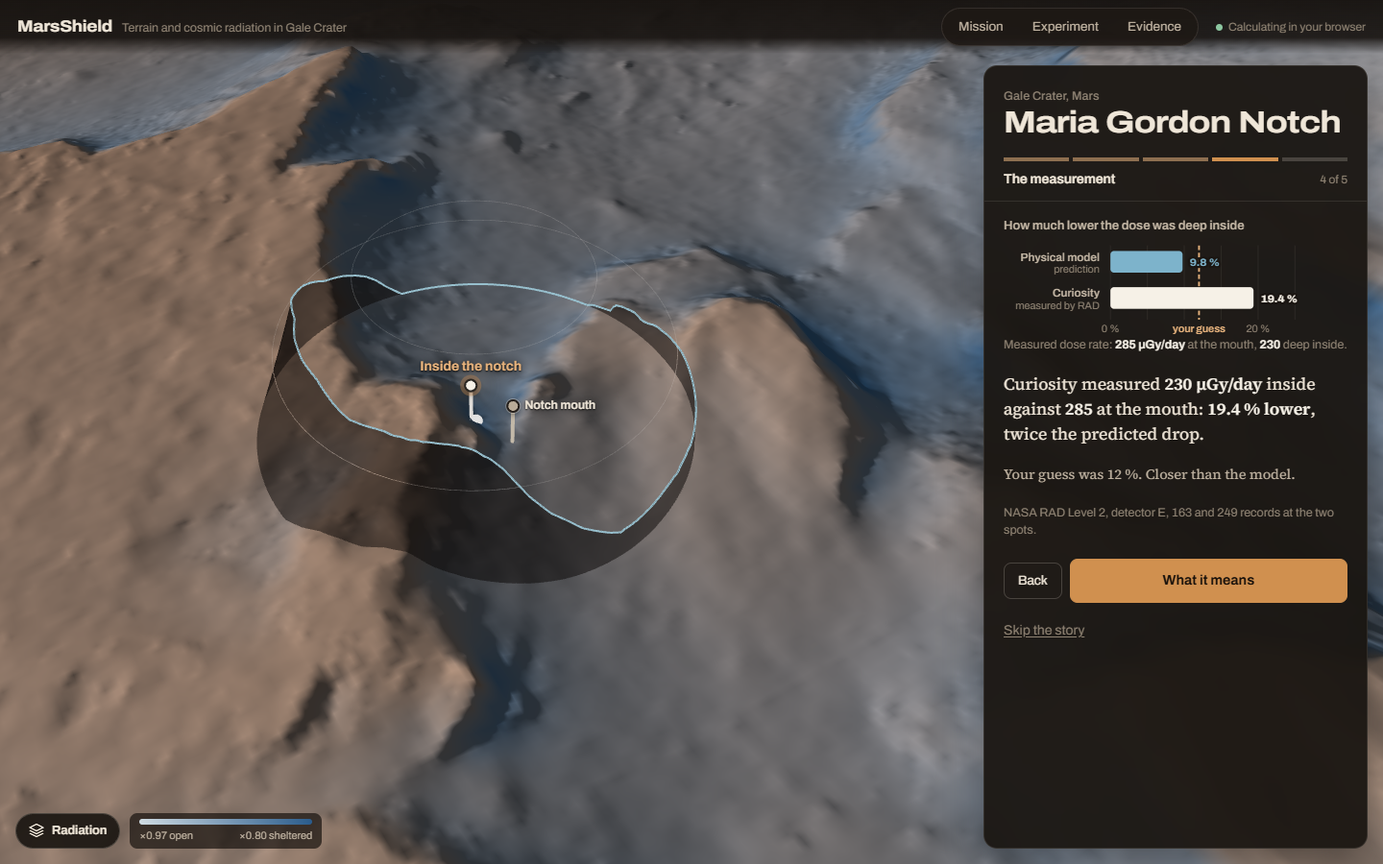
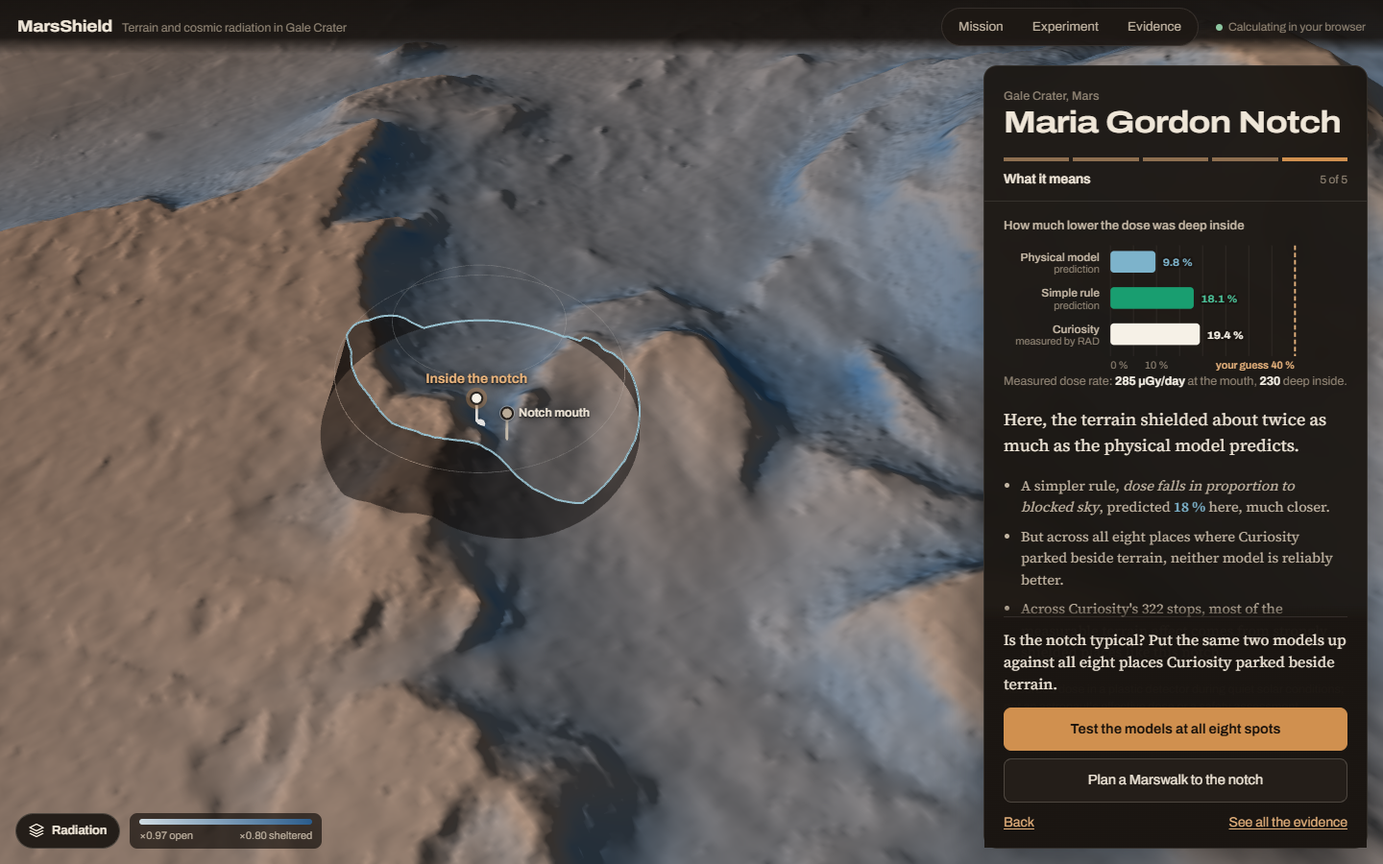
Clarify story independence, comparison references and astronaut tasks
- Story: "a look back, not a blind test" note at the prediction step (the
  model's albedo setting was partly derived from these parking measurements).
- Story chart: scale extends to the guess (up to 40 %) in 5 % steps; guess
  label kept inside the plot; a guess of exactly 0 % now registers.
- Story panel sizes to its content on desktop; next action pinned at the foot.
- Story ending leads into the eight-spot parking experiment (opens directly),
  with Plan a Marswalk as the second action.
- Mission evidence: each notch figure labelled with its reference
  (waypoint and 5-stop average vs other stops within ±15 sols; P6 vs BG6).
- Destination: Curiosity's historical objective separated from the assumed
  astronaut task, which no longer implies rover instruments; task exported.
- verify-story.mts (chart scale, extreme guesses) added to CI;
  docs/USABILITY_TEST.md (not yet run).

diff --git a/web/src/components/MissionMode.tsx b/web/src/components/MissionMode.tsx
@@ -31,6 +31,15 @@ function siteFlags(ds: Dataset, x: number, y: number): string[] {
   return out;
 }
 
+/** What MarsShield assumes a hypothetical astronaut does at the site, by activity type. Deliberately generic: the
+ *  plan models only time and position, not equipment, so it never assumes Curiosity's instruments (DAN, SAM, ...). */
+function astronautTask(label: string) {
+  const l = label.toLowerCase();
+  if (l.startsWith("sample")) return "Collect and document rock samples by hand";
+  if (l.startsWith("outcrop")) return "Document the outcrop and its layers";
+  return "Stationary fieldwork beside the cliff, with whatever equipment the expedition carries";
+}
+
 const flagTag = (f: string) => (f.startsWith("Steep") ? "steep ground" : f.startsWith("Below") ? "below a cliff" : "flag");
 
 export function MissionMode({ ds, eng, setScene, focusOn }: { ds: Dataset; eng: Eng; setScene: (s: SceneSpec) => void; focusOn: (x: number, y: number, dist?: number) => void }) {
@@ -173,7 +182,7 @@ export function MissionMode({ ds, eng, setScene, focusOn }: { ds: Dataset; eng: 
   const exportRun = () => download(`marsshield-mission-${dest}.json`, {
     kind: "MarsShield mission plan (modeled exposure; not a safety assessment)", generated: new Date().toISOString(), computed_in: "browser engine (verified against Python pipeline)",
     destination: { id: D.id, name: D.name, sources: D.sources }, start: { id: S.id, name: S.name }, return_leg: ret,
-    assumptions: { walking_speed_factor: suit, activity_duration_h: dur, work_radius_m: radius, eva_time_limit_h: limit || null, albedo_share: alpha, solar_modulation_MV: phi, stop_max_slope_deg: 15, walk_max_slope_deg: 25 },
+    assumptions: { astronaut_task: astronautTask(D.activity_label), curiosity_objective_historical: D.objective, walking_speed_factor: suit, activity_duration_h: dur, work_radius_m: radius, eva_time_limit_h: limit || null, albedo_share: alpha, solar_modulation_MV: phi, stop_max_slope_deg: 15, walk_max_slope_deg: 25 },
     routes: Object.fromEntries(STRATS.map(([o]) => [o, routes?.[o] ? { distance_m: sum("distance_m", o), time_h: sum("time_h", o), walking_dose_uGy: sum("dose_uGy", o) } : null])),
     plan: {
       route_strategy: sel,
@@ -210,8 +219,11 @@ export function MissionMode({ ds, eng, setScene, focusOn }: { ds: Dataset; eng: 
               <button key={t.id} role="radio" aria-checked={t.id === dest} onClick={() => pickDest(t.id)}>{t.name.split(",")[0]}</button>))}
           </div>
           <div className="dest-card">
-            <p className="dest-sub">{(() => { const q = D.name.split(",").slice(1).join(",").trim(); return q ? q[0].toUpperCase() + q.slice(1) : "Gale Crater"; })()}. {D.activity_label}.</p>
+            <p className="dest-sub">{(() => { const q = D.name.split(",").slice(1).join(",").trim(); return q ? q[0].toUpperCase() + q.slice(1) : "Gale Crater"; })()}</p>
+            <p className="role">Curiosity&apos;s objective here, sol {D.waypoint.sol} (historical)</p>
             <p className="lede">{D.objective}</p>
+            <p className="role">Your astronaut&apos;s task (assumed for this plan)</p>
+            <p className="prose"><A>{astronautTask(D.activity_label)}</A>. MarsShield plans only where and how long the astronaut works; it does not assume they carry Curiosity&apos;s instruments.</p>
             <dl className="facts">
               <div><dt>Work time</dt><dd><A>{h(D.duration_h[1])}</A></dd></div>
               <div><dt>Work area</dt><dd><A>{D.work_radius_m} m</A> radius</dd></div>
@@ -260,7 +272,7 @@ export function MissionMode({ ds, eng, setScene, focusOn }: { ds: Dataset; eng: 
 
         {step === 2 && (<>
           <h2 className="q">How long will the science take?</h2>
-          <p className="prose">{D.activity_label} at {D.name.split(",")[0]}.</p>
+          <p className="prose">At {D.name.split(",")[0]}: <A>{astronautTask(D.activity_label).toLowerCase()}</A>. A hypothetical task, not Curiosity&apos;s.</p>
           <Slider label={<>Time at the site <A>(planning assumption)</A></>} value={dur} min={0.25} max={Math.max(8, D.duration_h[2])} step={0.25} onChange={setDur} fmt={h} />
           <div className="row"><span className="muted">Your EVA time limit</span>
             <Seg label="EVA time limit" value={limit} onChange={setLimit} options={[[0, "None"], [4, "4 h"], [6, "6 h"], [8, "8 h"]]} /></div>
@@ -335,21 +347,24 @@ export function MissionMode({ ds, eng, setScene, focusOn }: { ds: Dataset; eng: 
         {step === 4 && (<>
           <h2 className="q">What did Curiosity actually measure here?</h2>
           <Grammar />
-          {D.measured_rad ? (
-            <div className="figure-pair">
-              <div><b><M>{D.measured_rad.E_mean_uGy_d.toFixed(0)}</M></b><span>µGy/day measured by RAD, {D.measured_rad.utc_start?.slice(0, 10)} to {D.measured_rad.utc_end?.slice(0, 10)}</span></div>
-              <div><b><M>{D.measured_rad.local_anomaly != null ? `${sgn(D.measured_rad.local_anomaly * 100)} %` : "n/a"}</M></b><span>against the surrounding ±15 sols</span></div>
-            </div>
-          ) : <p className="muted">No RAD summary at Curiosity&apos;s position for this site.</p>}
-          {(() => {
-            const near = ds.terrainSignal?.rows.filter((r) => Math.hypot(r.x - D.x, r.y - D.y) < 40) ?? [];
-            if (!near.length) return null;
-            const avg = (k: "y_obs" | "m_terrain" | "g_proxy") => (near.reduce((s, r) => s + r[k], 0) / near.length) * 100;
-            return <p className="prose">At Curiosity&apos;s {near.length} stop{near.length > 1 ? "s" : ""} here, the dose was <M>{sgn(avg("y_obs"))} %</M> against its surroundings.
-              The terrain model predicted <P>{sgn(avg("m_terrain"))} %</P> and the simple blocked-sky rule <P>{sgn(avg("g_proxy"))} %</P>.</p>;
-          })()}
-          {ds.periods.filter((q) => q.kind === "parking" && Math.hypot(q.x - D.x, q.y - D.y) < 60).map((q) => (
-            <p key={q.id} className="prose">Published terrain-shielding period {q.id}: RAD dropped <M>{((q.pub.decrease ?? 0) * 100).toFixed(1)} %</M> against a nearby background position.</p>))}
+          <p className="prose">Each figure compares Curiosity&apos;s dose here with a <b>different reference</b>, so they are not expected to match and do not contradict each other.</p>
+          <div className="cmp-list">
+            {D.measured_rad?.local_anomaly != null && (
+              <div className="cmp"><b><M>{sgn(D.measured_rad.local_anomaly * 100)} %</M></b>
+                <span><strong>At the target waypoint</strong> (sol {D.measured_rad.sol}, <M>{D.measured_rad.E_mean_uGy_d.toFixed(0)} µGy/day</M>), against Curiosity&apos;s dose at its other stops within ±15 sols.</span></div>)}
+            {(() => {
+              const near = ds.terrainSignal?.rows.filter((r) => Math.hypot(r.x - D.x, r.y - D.y) < 40) ?? [];
+              if (!near.length) return null;
+              const avg = (k: "y_obs" | "m_terrain" | "g_proxy") => (near.reduce((q, r) => q + r[k], 0) / near.length) * 100;
+              return <div className="cmp"><b><M>{sgn(avg("y_obs"))} %</M></b>
+                <span><strong>Average of Curiosity&apos;s {near.length} stop{near.length > 1 ? "s" : ""} within 40 m</strong>, same ±15-sol reference; these stops have {(Math.min(...near.map((r) => r.B)) * 100).toFixed(0)} to {(Math.max(...near.map((r) => r.B)) * 100).toFixed(0)} % of the sky blocked, so the average mixes sheltered and open ground. Terrain model <P>{sgn(avg("m_terrain"))} %</P>, blocked-sky rule <P>{sgn(avg("g_proxy"))} %</P>. This is the comparison used across all 322 stops.</span></div>;
+            })()}
+            {ds.parking.pairs.filter((q) => { const pp = ds.parking.periods[q.parking]; return pp && Math.hypot(pp.x - D.x, pp.y - D.y) < 60; }).map((q) => {
+              const pp = ds.parking.periods[q.parking], bg = ds.parking.periods[q.background];
+              return <div className="cmp" key={q.parking}><b><M>{sgn((pp.D_RAD_ours / bg.D_RAD_ours - 1) * 100)} %</M></b>
+                <span><strong>Published parking pair {q.parking} against {q.background}</strong>: deep inside against the notch mouth {Math.hypot(pp.x - bg.x, pp.y - bg.y).toFixed(0)} m away, on consecutive days (Guo et al. 2026). This is the comparison in the opening story.</span></div>;
+            })}
+          </div>
           {ds.skiesTargets[dest] && (<>
             <SkyDisc sky={ds.skiesTargets[dest]} size={260} />
             <More label="How much dose arrives from each part of the sky"><ZenithBars sky={ds.skiesTargets[dest]} /></More>

diff --git a/web/src/components/Story.tsx b/web/src/components/Story.tsx
@@ -4,13 +4,14 @@
 import { useEffect, useState } from "react";
 import type { Dataset } from "@/lib/data";
 import type { ScenePin } from "./TerrainScene";
+import { dropScale, GUESS_MAX } from "@/lib/storyScale";
 import { M, P } from "./ui";
 
 type Mode = "mission" | "experiment" | "evidence";
 export type StoryScene = { pins: ScenePin[]; sky: boolean; focus: { x: number; y: number; dist: number } };
 const STEPS = ["The place", "The question", "The model", "The measurement", "What it means"];
 
-export function NotchStory({ ds, setStoryScene, onDone }: { ds: Dataset; setStoryScene: (s: StoryScene) => void; onDone: (m: Mode) => void }) {
+export function NotchStory({ ds, setStoryScene, onDone }: { ds: Dataset; setStoryScene: (s: StoryScene) => void; onDone: (m: Mode, exp?: "parking") => void }) {
   const [step, setStep] = useState(0);
   const [guess, setGuess] = useState<number | null>(null);
   const inside = ds.parking.periods.P6, mouth = ds.parking.periods.BG6;
@@ -53,7 +54,8 @@ export function NotchStory({ ds, setStoryScene, onDone }: { ds: Dataset; setStor
           <div className="guess">
             <label htmlFor="guess"><b>How much lower was the dose deep inside?</b> <span className="muted">Your guess, optional</span></label>
             <div className="guess-row">
-              <input id="guess" type="range" min={0} max={40} step={1} value={guess ?? 0} onChange={(e) => setGuess(+e.target.value)} />
+              <input id="guess" type="range" min={0} max={GUESS_MAX} step={1} value={guess ?? 0} onChange={(e) => setGuess(+e.target.value)}
+                onPointerUp={(e) => setGuess(+e.currentTarget.value)} onKeyUp={(e) => setGuess(+e.currentTarget.value)} />
               <output>{guess == null ? "–" : `${guess} % lower`}</output>
             </div>
           </div>
@@ -64,6 +66,7 @@ export function NotchStory({ ds, setStoryScene, onDone }: { ds: Dataset; setStor
         {step === 2 && (<>
           <p className="lede">The published physical model counts both effects and predicts the dose inside to be <P>{(model * 100).toFixed(1)} % lower</P>.</p>
           <p className="prose">It traces the sky the walls block and adds radiation re-emitted by the rock (Guo et al. 2021, 2026), using the terrain you see.</p>
+          <p className="caveat"><b>A look back, not a blind test.</b> How much radiation the rock re-emits is the model&apos;s one adjustable setting, and its authors partly derived it from Curiosity&apos;s parking measurements, including this notch.</p>
         </>)}
         {step === 3 && (<>
           <p className="lede">Curiosity measured <M>{inside.D_RAD_ours.toFixed(0)} µGy/day</M> inside against <M>{mouth.D_RAD_ours.toFixed(0)}</M> at the mouth: <M>{(measured * 100).toFixed(1)} % lower</M>, twice the predicted drop.</p>
@@ -83,18 +86,19 @@ export function NotchStory({ ds, setStoryScene, onDone }: { ds: Dataset; setStor
           <div className="story-nav">
             {step > 0 && <button className="btn ghost" onClick={() => setStep(step - 1)}>Back</button>}
             <button className="btn primary" onClick={next}>{["Ask the question", "See the prediction", "Reveal the measurement", "What it means"][step]}</button>
+            <button className="linklike small skip" onClick={() => onDone("mission")}>Skip the story</button>
           </div>
         ) : (
           <div className="story-cta">
-            <button className="btn primary" onClick={() => onDone("mission")}>Plan a Marswalk to the notch</button>
-            <button className="btn" onClick={() => onDone("experiment")}>Test the models yourself</button>
+            <p className="bridge">Is the notch typical? Put the same two models up against all eight places Curiosity parked beside terrain.</p>
+            <button className="btn primary" onClick={() => onDone("experiment", "parking")}>Test the models at all eight spots</button>
+            <button className="btn" onClick={() => onDone("mission")}>Plan a Marswalk to the notch</button>
             <div className="row" style={{ justifyContent: "space-between" }}>
               <button className="linklike small" onClick={() => setStep(step - 1)}>Back</button>
               <button className="linklike small" onClick={() => onDone("evidence")}>See all the evidence</button>
             </div>
           </div>
         )}
-        {step < STEPS.length - 1 && <button className="linklike small skip" onClick={() => onDone("mission")}>Skip the story</button>}
       </div>
     </>
   );
@@ -105,7 +109,10 @@ export function NotchStory({ ds, setStoryScene, onDone }: { ds: Dataset; setStor
 function ShieldBars({ model, measured, rule, showMeasured, showRule, guess, mouth, inside }: {
   model: number; measured: number; rule: number; showMeasured: boolean; showRule: boolean; guess: number | null; mouth: number; inside: number;
 }) {
-  const W = 380, pl = 118, pr = 58, max = 25, x = (v: number) => pl + (v / max) * (W - pl - pr);
+  const { max, ticks, grid } = dropScale([model * 100, measured * 100, rule * 100], guess);
+  const W = 380, pl = 118, pr = 58, x = (v: number) => pl + (Math.min(Math.max(v, 0), max) / max) * (W - pl - pr);
+  // keep the guess label inside the plot at the extremes (0 % and the top of the scale)
+  const gAnchor = guess == null ? "middle" : x(guess) - pl < 30 ? "start" : W - pr - x(guess) < 30 ? "end" : "middle";
   const rows: { k: string; label: string; sub: string; v: number | null; cls: string }[] = [
     { k: "model", label: "Physical model", sub: "prediction", v: model, cls: "bar-model" },
     ...(showRule ? [{ k: "rule", label: "Simple rule", sub: "prediction", v: rule, cls: "bar-rule" }] : []),
@@ -117,10 +124,10 @@ function ShieldBars({ model, measured, rule, showMeasured, showRule, guess, mout
       <p className="bars-title">How much lower the dose was deep inside</p>
       <svg viewBox={`0 0 ${W} ${H}`} className="chart" role="img"
         aria-label={`Drop in dose rate inside the notch: model ${(model * 100).toFixed(1)} %${showMeasured ? `, measured ${(measured * 100).toFixed(1)} %` : ""}${showRule ? `, simple rule ${(rule * 100).toFixed(1)} %` : ""}`}>
-        <g className="grid">{[0, 5, 10, 15, 20, 25].map((t) => <line key={t} x1={x(t)} x2={x(t)} y1={top} y2={H - 18} />)}</g>
-        {guess != null && <g>
+        <g className="grid">{grid.map((t) => <line key={t} x1={x(t)} x2={x(t)} y1={top} y2={H - 18} />)}</g>
+        {guess != null && <g data-guess={guess}>
           <line x1={x(guess)} x2={x(guess)} y1={top} y2={H - 18} stroke="#e7b37d" strokeWidth={2} strokeDasharray="5 3" />
-          <text x={x(guess)} y={H - 4} textAnchor="middle" className="guess-lbl">your guess</text></g>}
+          <text x={x(guess)} y={H - 4} textAnchor={gAnchor} className="guess-lbl">your guess {guess} %</text></g>}
         {rows.map((r, i) => {
           const cy = top + i * rowH;
           return (
@@ -135,7 +142,14 @@ function ShieldBars({ model, measured, rule, showMeasured, showRule, guess, mout
             </g>
           );
         })}
-        {[0, 10, 20].map((t) => (guess != null && Math.abs(t - guess) < 4 ? null : <text key={t} x={x(t)} y={H - 4} textAnchor="middle">{t} %</text>))}
+        {ticks.map((t) => {
+          // hide a tick label wherever the guess label (about 92 px wide) would overlap it
+          if (guess != null) {
+            const gx = x(guess), [l, r] = gAnchor === "start" ? [gx, gx + 92] : gAnchor === "end" ? [gx - 92, gx] : [gx - 46, gx + 46];
+            if (x(t) > l - 18 && x(t) < r + 18) return null;
+          }
+          return <text key={t} x={x(t)} y={H - 4} textAnchor={t === 0 ? "start" : "middle"}>{t} %</text>;
+        })}
       </svg>
       {showMeasured && <figcaption className="muted">Measured dose rate: <span className="v-measured">{mouth.toFixed(0)} µGy/day</span> at the mouth, <span className="v-measured">{inside.toFixed(0)}</span> deep inside.</figcaption>}
     </figure>

diff --git a/web/src/app/design.css b/web/src/app/design.css
@@ -30,6 +30,13 @@
 .story-nav { display: flex; gap: 8px; align-items: center; margin-top: 2px; }
 .story-nav .btn.primary { flex: 1; padding: 11px 16px; font-size: 14.5px; }
 .story-cta { display: flex; flex-direction: column; gap: 8px; width: 100%; }
+/* the story's next action stays visible at the foot of the panel while the content scrolls */
+.story .story-nav, .story .story-cta { position: sticky; bottom: -24px; z-index: 1; margin: 0 -20px -24px; padding: 12px 20px 16px;
+  background: linear-gradient(180deg, rgba(26, 21, 17, 0), rgba(26, 21, 17, 0.97) 18px); }
+.story .story-nav { flex-wrap: wrap; }
+.story .story-cta { width: auto; }
+.story .story-cta .bridge { margin: 0 0 4px; padding-top: 12px; }
+.story .story-nav .skip { flex-basis: 100%; margin-top: 2px; }
 .story-cta .btn { padding: 11px 16px; font-size: 14.5px; text-align: center; }
 .story-cta .linklike { align-self: center; margin-top: 2px; }
 .skip { align-self: flex-start; color: var(--ink-3); }
@@ -128,6 +135,17 @@
 .models i { display: inline-block; width: 9px; height: 9px; border-radius: 50%; margin-right: 8px; vertical-align: 1px; }
 .models b { color: var(--ink); font-weight: 600; }
 
+/* the story panel sizes to its content on desktop instead of running the full height of the terrain */
+@media (min-width: 861px) { .panel.fit { bottom: auto; max-height: calc(100dvh - 84px); } .panel.fit .panel-body { flex: 0 1 auto; } }
+.caveat { margin: 0; padding: 9px 12px; border-left: 3px solid var(--line-2); font-size: 13px; line-height: 1.5; color: var(--ink-2); }
+.caveat b { color: var(--ink); font-weight: 600; }
+.bridge { margin: 4px 0 0; padding-top: 14px; border-top: 1px solid var(--line); font-family: var(--font-text); font-size: 15.5px; line-height: 1.5; color: var(--ink); }
+.role { margin: 0; font-size: 11.5px; font-weight: 600; color: var(--ink-3); }
+.cmp-list { display: grid; gap: 12px; }
+.cmp { display: grid; grid-template-columns: 92px 1fr; gap: 12px; align-items: baseline; }
+.cmp > b { font-size: 20px; font-weight: 650; font-stretch: 105%; text-align: right; white-space: nowrap; }
+.cmp > span { font-size: 13px; line-height: 1.5; color: var(--ink-2); }
+.cmp > span strong { color: var(--ink); font-weight: 600; }
 @media (min-width: 861px) and (max-width: 1180px) { .panel { width: 370px; } }
 @media (max-width: 860px) {
   .panel { width: auto; }

diff --git a/web/src/components/App.tsx b/web/src/components/App.tsx
@@ -83,6 +83,7 @@ export default function App() {
   const [layer, setLayer] = useState<Layer>("dose");
   const [showObs, setShowObs] = useState(false);     // Curiosity's 322 RAD stops: in Layers, off by default
   const [story, setStory] = useState<StoryScene | null>(null);
+  const [initExp, setInitExp] = useState<"parking" | null>(null);   // the story can hand over straight to an experiment
   // desktop: the panel covers the right of the canvas, so centre the camera's focus in what remains
   const [vw, setVw] = useState(1440);
   useEffect(() => { const f = () => setVw(window.innerWidth); f(); window.addEventListener("resize", f); return () => window.removeEventListener("resize", f); }, []);
@@ -102,7 +103,8 @@ export default function App() {
     loadDataset().then(setDs).catch((e) => setErr(String(e.message ?? e)));
   }, []);
   const focusOn = useCallback((x: number, y: number, dist?: number) => setFocus((f) => ({ x, y, dist, n: (f?.n ?? 0) + 1 })), []);
-  const finishWelcome = (m: Mode) => {
+  const finishWelcome = (m: Mode, exp?: "parking") => {
+    setInitExp(exp ?? null);
     setWelcome(false); setMode(m); setCard(null); setScene({});   // each mode draws only its own lines
     if (m !== "mission") overview();
     if (m === "evidence") setLayer("dose");
@@ -180,11 +182,11 @@ export default function App() {
         <button className="btn ghost panel-toggle" style={{ display: panel ? "none" : undefined }} onClick={() => setPanel(true)}>Show panel</button>
       </section>
 
-      <aside className={`panel ${panel ? "" : "hidden"}`} aria-label="Panel">
+      <aside className={`panel ${panel ? "" : "hidden"}${welcome ? " fit" : ""}`} aria-label="Panel">
         {welcome ? (
           <NotchStory ds={ds} setStoryScene={setStoryScene} onDone={finishWelcome} />
         ) : mode === "mission" ? <MissionMode ds={ds} eng={eng} setScene={setSceneCb} focusOn={focusOn} />
-          : mode === "experiment" ? <ExperimentMode ds={ds} setScene={setSceneCb} setLayer={setLayerCb} />
+          : mode === "experiment" ? <ExperimentMode ds={ds} setScene={setSceneCb} setLayer={setLayerCb} initial={initExp} />
           : <EvidenceMode ds={ds} />}
       </aside>
     </div>

diff --git a/web/src/components/ExperimentMode.tsx b/web/src/components/ExperimentMode.tsx
@@ -66,8 +66,8 @@ function slopeCI(x: number[], y: number[], L = 20, B = 2000) {
   return { slope: s(x.map((_, i) => i)), lo: pct(bs, 0.025), hi: pct(bs, 0.975) };
 }
 
-export function ExperimentMode({ ds, setScene, setLayer }: { ds: Dataset; setScene: (s: SceneSpec) => void; setLayer: (l: "dose" | "disagree" | "image") => void }) {
-  const [exp, setExp] = useState<Exp | null>(null);
+export function ExperimentMode({ ds, setScene, setLayer, initial = null }: { ds: Dataset; setScene: (s: SceneSpec) => void; setLayer: (l: "dose" | "disagree" | "image") => void; initial?: Exp | null }) {
+  const [exp, setExp] = useState<Exp | null>(initial);
   const [revealed, setRevealed] = useState(false);
   const ts = ds.terrainSignal;
   useEffect(() => { setRevealed(false); }, [exp]);

diff --git a/web/src/lib/storyScale.ts b/web/src/lib/storyScale.ts
@@ -1,0 +1,10 @@
+// Scale of the notch story's drop chart. Zero-based; extends past 25 % in steps of 5 only when the reader's guess
+// (0 to 40 %) needs it, so the guess line is always inside the plot.
+export const GUESS_MAX = 40;
+
+export function dropScale(values: number[], guess: number | null) {
+  const need = Math.max(25, ...values, guess ?? 0);
+  const max = Math.min(GUESS_MAX, Math.ceil(need / 5) * 5);
+  const ticks = Array.from({ length: Math.floor(max / 10) + 1 }, (_, i) => i * 10);
+  return { max, ticks, grid: Array.from({ length: max / 5 + 1 }, (_, i) => i * 5) };
+}

diff --git a/docs/USABILITY_TEST.md b/docs/USABILITY_TEST.md
@@ -1,0 +1,65 @@
+# MarsShield usability test script
+
+**Status: not yet run.** No independent participants have completed this test. Until they do, MarsShield makes no claim of user validation, and any results must be reported with participant numbers and dates.
+
+## Participants
+
+- **Students:** 5 people who have not seen MarsShield, are aged 15 or over, and have had no specialised training in radiation or planetary science.
+- **Domain expert:** 1 person working in space radiation, planetary geology or planetary data analysis, who has not contributed to MarsShield.
+
+## Setup and rules
+
+- **Session:** 20 to 30 minutes, one participant at a time.
+- **Device:** start on the public site in a fresh private window, so the opening story shows. Run students on a desktop or laptop; if possible, run one student on a phone as well.
+- **Facilitator:** reads each task aloud exactly as written below, and does not explain the interface or the science. When a participant asks a question, the facilitator replies: *"What would you try?"*
+- **Think aloud:** ask participants to say what they are thinking as they work.
+- **Recording:**
+  - time to complete each task
+  - whether they completed it unaided, with a hint, or not at all
+  - quotes and observed confusion
+  - screen recording, only with written consent
+- **Data:** do not collect names in the results. Use participant codes S1 to S5 and E1.
+
+## Student tasks
+
+| # | Task (read aloud) | Success looks like | Observe |
+|---|---|---|---|
+| 1 | "Take a minute to look at the first screen. In your own words, what is this site about?" | Mentions Mars terrain, radiation, and that terrain can lower the dose | Do they notice the markers on the terrain? |
+| 2 | "Follow the story until it shows what Curiosity measured. Before you get there, make a guess." | Sets the guess slider and reaches step 4 | Is the guess slider understood? Is it skipped? |
+| 3 | "How much lower was the dose inside the notch, and how close was the model?" | About 19 % measured against about 10 % predicted; the model predicted about half the drop | Do they read the bars or the text? |
+| 4 | "Was the model's prediction made without knowing the answer?" | No: the model's setting was partly derived from these measurements | Did they read or notice the caveat line? |
+| 5 | "Plan a walk to the notch and back. Where should the astronaut stand while working, and why?" | Reaches *Where to stand*; says the model cannot reliably rank the spots, so the plan stays at the target | Do they understand "model cannot tell"? |
+| 6 | "Pick the most sheltered spot instead. What changes, and is anything dangerous about it?" | Total dose changes; names the steep-slope and cliff warnings for that spot | Do the warnings update and get noticed? |
+| 7 | "Does the astronaut use Curiosity's instruments at this site?" | No: Curiosity's objective is historical, and the astronaut's task is an assumption | Is the historical/assumed split clear? |
+| 8 | "Open an experiment and find out whether the physical model beats the simple rule." | "Cannot tell them apart", plus a reason in their own words | Is the five-step sequence followed? |
+
+**After the tasks, ask the student to rate each statement from 1 (disagree) to 5 (agree):**
+- "I knew what to do next."
+- "I could tell measured numbers from model numbers."
+- "I trust the conclusions."
+
+**Then ask, open-ended:** "What was confusing?"
+
+## Expert tasks
+
+| # | Task | Probe |
+|---|---|---|
+| 1 | "Go through the story and tell us whether anything is overstated." | Is the retrospective caveat sufficient? Is "about twice" fair? |
+| 2 | "In Mission → Evidence, explain why the three notch figures differ." | Are the different references (±15-sol neighbours, the five-stop average, P6 against BG6) clear and correct? |
+| 3 | "In the first experiment, judge whether the conclusion follows from the analysis." | Is the concentration at site 92 adequately conveyed? Is the site-level resampling appropriate? |
+| 4 | "Is anything in Where to stand misleading for mission planning?" | Are the absorbed-dose and screening-rule caveats sufficient? Is anything missing? |
+| 5 | "What one change would most improve scientific credibility?" | — |
+
+## Reporting template
+
+For each task, report:
+- completion: unaided, with a hint, or not completed
+- median time
+- the main confusion, with a quote
+
+Then:
+- the expert's critique, verbatim where possible
+- the changes made in response
+- a list of tasks that failed for two or more students
+
+Report results as observed, including failures. A sample of six people is a qualitative check, not a statistical validation.

diff --git a/README.md b/README.md
@@ -50,7 +50,7 @@ Audiences and the question each can answer: [docs/AUDIENCES.md](docs/AUDIENCES.m
 | ![Where to stand](docs/img/3-where-to-stand.png) Where to stand: decision and dose difference first; the selected spot's own hazard flags | ![Summary](docs/img/4-mission-summary.png) The plan's route, stop and totals, all from one computation |
 | ![Experiment](docs/img/5-experiment-result.png) Experiment: question, prediction, reveal, result, explanation | ![Parking](docs/img/6-experiment-parking.png) Physical model or simple rule: cannot tell them apart |
 
-Phone: [story](docs/img/7-phone-story.png), [where to stand](docs/img/8-phone-where-to-stand.png). No-WebGL fallback: [docs/img/9-no-webgl.png](docs/img/9-no-webgl.png). Earlier interfaces are in `docs/img/before/` (`v2-*` is the version before the current redesign).
+Story opening: [docs/img/1-notch-story-start.png](docs/img/1-notch-story-start.png). Mission evidence, three references: [docs/img/4-mission-evidence.png](docs/img/4-mission-evidence.png). Phone: [story](docs/img/7-phone-story.png), [where to stand](docs/img/8-phone-where-to-stand.png). No-WebGL fallback: [docs/img/9-no-webgl.png](docs/img/9-no-webgl.png). Earlier interfaces are in `docs/img/before/` (`v2-*` is the version before the current redesign).
 
 ## What is verified and what is modeled
 
@@ -73,6 +73,7 @@ Phone: [story](docs/img/7-phone-story.png), [where to stand](docs/img/8-phone-wh
 - [docs/METHODS.md](docs/METHODS.md): methods
 - [docs/DATA_SOURCES.md](docs/DATA_SOURCES.md): provenance
 - [docs/DEMO.md](docs/DEMO.md): a 3-minute demo script
+- [docs/USABILITY_TEST.md](docs/USABILITY_TEST.md): usability test script (not yet run with participants)
 - [docs/AUDIENCES.md](docs/AUDIENCES.md): intended audiences and their questions
 - [docs/SUBMISSION.md](docs/SUBMISSION.md): submission text
 
